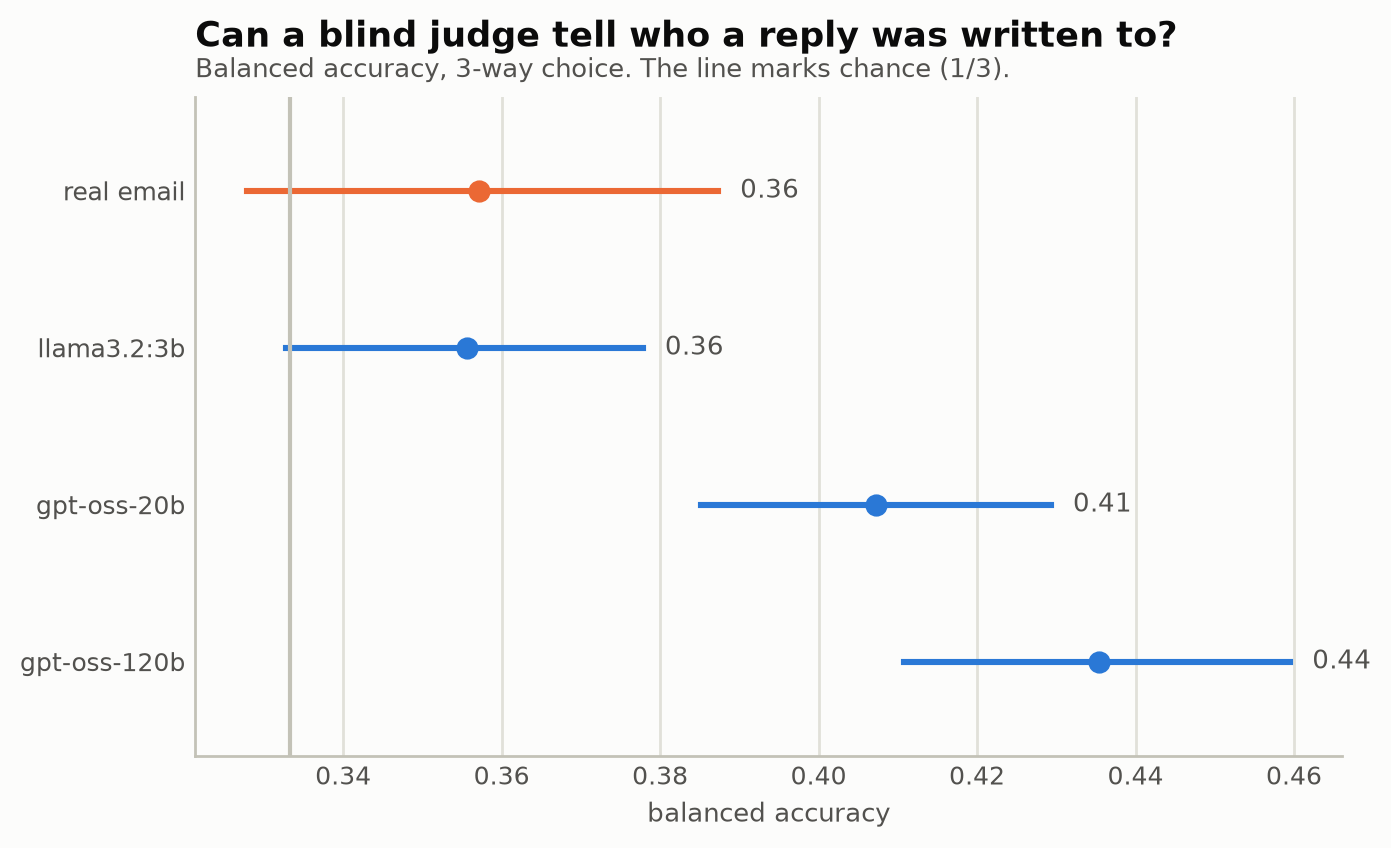
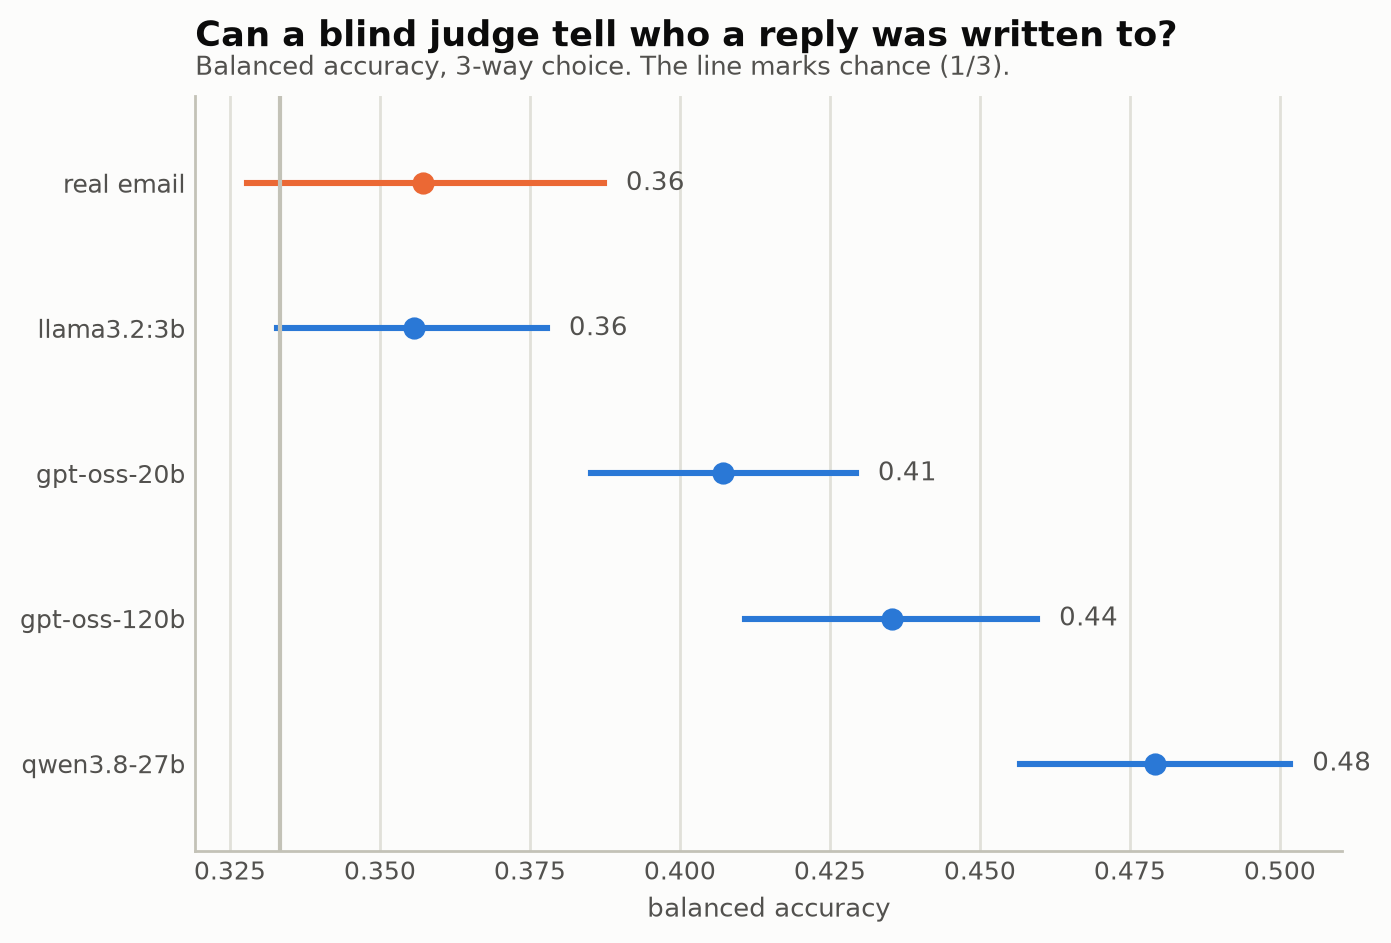
Add qwen3.8-27b to the Layer 1 result
The judge reads hierarchy most easily from qwen replies (47.9%,
+12.2 points over real email), almost all from the down direction.

diff --git a/PROGRESS_llms.md b/PROGRESS_llms.md
@@ -1386,6 +1386,7 @@ chance (0 = guessing).
 | Llama 3.2 3B | 1,440 | 35.6% | [33.3%, 37.8%] | 0.03 | -0.2 pts | [-3.8, +3.5] | .94 |
 | gpt-oss-20b | 1,428 | 40.7% | [38.5%, 42.9%] | 0.11 | +5.0 pts | [+1.3, +8.7] | .006 |
 | gpt-oss-120b | 1,440 | 43.5% | [41.1%, 46.0%] | 0.15 | +7.8 pts | [+3.9, +11.6] | <.001 |
+| qwen3.8-27b | 1,440 | 47.9% | [45.7%, 50.2%] | 0.22 | +12.2 pts | [+8.5, +15.8] | <.001 |
 
 Hit rate for each true direction:
 
@@ -1395,6 +1396,7 @@ Hit rate for each true direction:
 | Llama 3.2 3B | 23.8% | 61.0% | 21.9% |
 | gpt-oss-20b | 18.7% | 72.0% | 31.5% |
 | gpt-oss-120b | 31.2% | 64.8% | 34.6% |
+| qwen3.8-27b | 17.7% | 49.6% | 76.5% |
 
 ![Layer 1 accuracy](docs/figures/role_inference_accuracy.png)
 
@@ -1409,9 +1411,15 @@ Hit rate for each true direction:
   replies are easier to spot (31.5% and 34.6%, against 26.3%). This fits
   section 13, where both gpt-oss models give clearly more orders when
   writing down.
-- **The judge leans toward "lateral" on every source.** That is the
-  highest hit rate in every row. A judge that says "lateral" when
-  unsure scores well on lateral and badly on up and down.
+- **qwen's replies are the easiest to read: 12.2 points above real
+  email.** Almost all of the gain is in "down": the judge spots 76.5%
+  of qwen's replies written down, against 26.3% for real email. This
+  fits section 13, where qwen has the strongest writing-down effect of
+  all models. qwen is not the judge, so self-judging cannot explain it.
+- **The judge leans toward "lateral" on every source but qwen.**
+  Lateral is the highest hit rate in every other row. A judge that
+  says "lateral" when unsure scores well on lateral and badly on up
+  and down. For qwen, down is the highest.
 
 **What this means for the plan.** Layer 1 was built to catch generated
 email that *lacks* the hierarchy signal real email has. With this judge,
@@ -1425,8 +1433,8 @@ signal to start from with this judge.
 
 - **gpt-oss-120b judges its own replies.** Its top score may partly come
   from reading its own style. gpt-oss-20b, a different model of the same
-  family, also beats real email, so the pattern is not only self-judging.
-  It is not tested with an outside judge.
+  family, also beats real email, and so does qwen3.8-27b, a different
+  family. So the pattern is not only self-judging.
 - **The two sides are not the same kind of text.** Real items are whole
   Enron emails. Generated items are replies to a fixed scenario.
 - **Real email's labels come from the sender's and receiver's rank**
@@ -1438,8 +1446,6 @@ signal to start from with this judge.
   up/lateral/down mix as the full set, so its accuracy is a fair estimate.
   More emails would mostly narrow the interval. Rounding each
   direction's share gives 1,001.
-- **qwen3.8-27b was not judged.** Its grid was not ready when this run
-  started.
 - **The interval was fixed before this write-up.** The code first put a
   Wilson interval for plain accuracy next to balanced accuracy. These
   differ on real email, whose directions are not balanced. The interval
